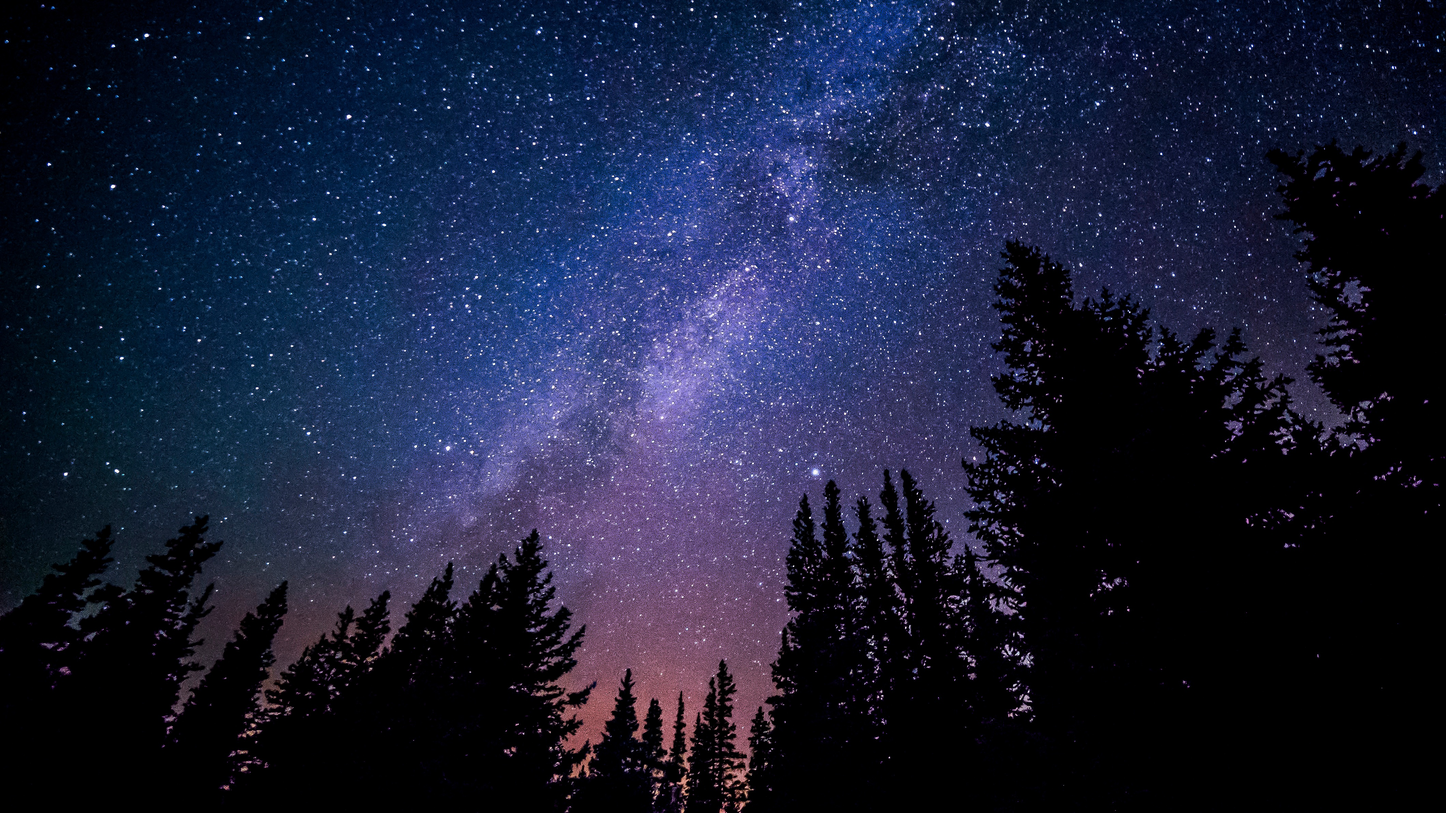
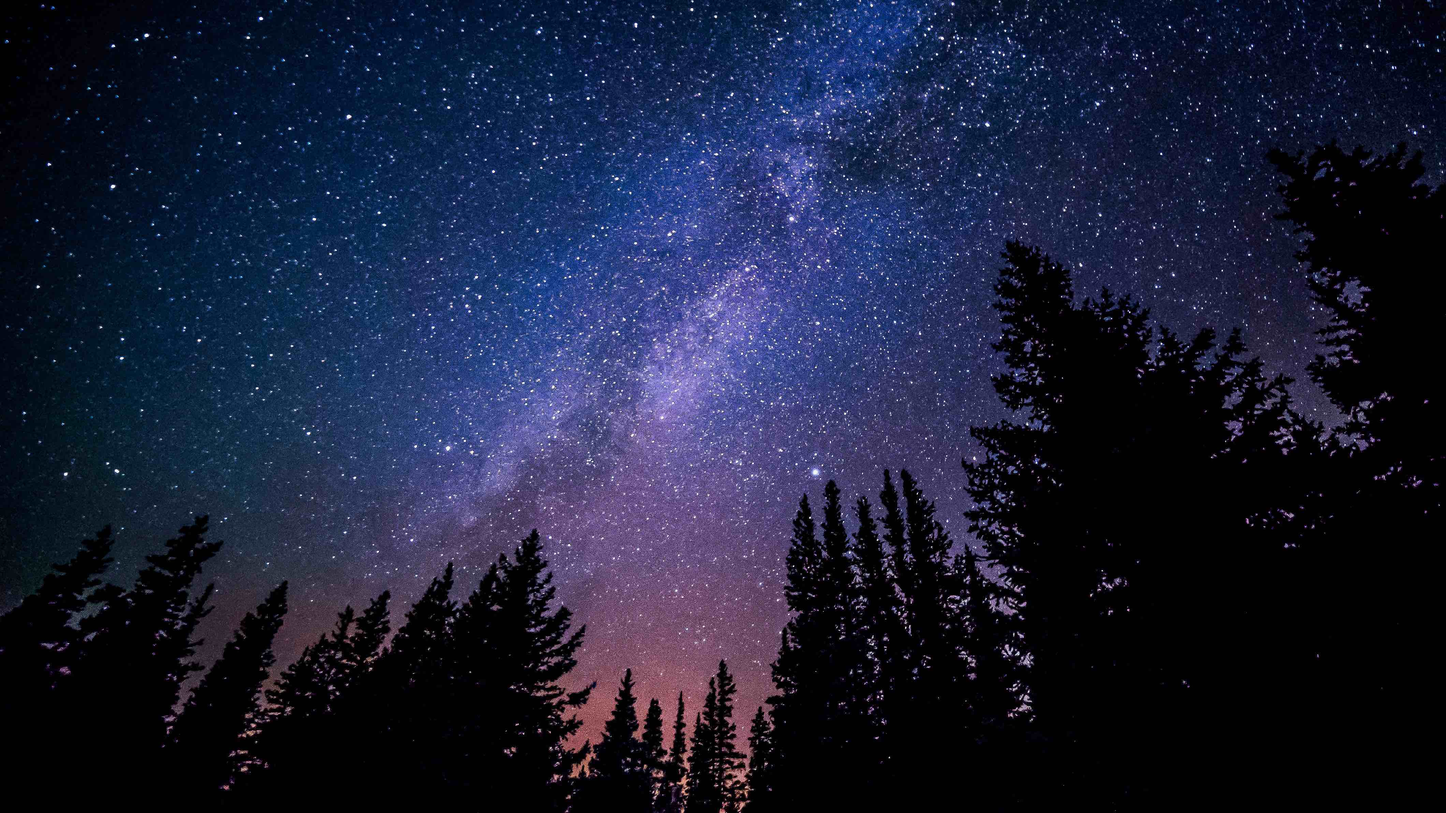
做了多項優化工程，感謝廣霖大大、皮皮大大和宏宏大大。 1.背景圖的檔案變小了！ 2.背景圖暗化處理讓字更看得到！ 3.增加螢火蟲效果！

diff --git a/pp.js b/pp.js
@@ -1,0 +1,107 @@
+function fireflies() {
+    var WIDTH;
+    var HEIGHT;
+    
+    var g;
+    var pxs = new Array();
+    var rint = 50;
+    
+    function getWidth() { return window.innerWidth; }
+    function getHeight() { return window.innerHeight; }
+    
+    function getContainer() { return document.getElementById('container'); }
+    function getCanvas() { return document.getElementById('pixie'); }
+    function getCanvasContext() { return getCanvas().getContext('2d'); }
+    
+    window.onload = main;
+    
+    function main() {
+        WIDTH = getWidth();
+        HEIGHT = getHeight();
+        
+        var container = getContainer();
+        container.style.width = WIDTH + 'px';
+        container.style.height = HEIGHT + 'px';
+        
+        var canvas = getCanvas();
+        canvas.width = WIDTH;
+        canvas.height = HEIGHT;
+        
+        for(var i = 0; i < 100; i++) {
+            pxs[i] = new Circle();
+            pxs[i].reset();
+        }
+        setInterval(draw,rint);
+        
+    };
+    
+    function draw() {
+        getCanvasContext().clearRect(0,0,WIDTH,HEIGHT);
+        for(var i = 0; i < pxs.length; i++) {
+            pxs[i].fade();
+            pxs[i].move();
+            pxs[i].draw();
+        }
+    }
+    
+    function Circle() {
+        this.con = getCanvasContext('2d');
+        this.s = {
+            ttl: 8000,
+            xmax: 5,
+            ymax: 2,
+            rmax: 10,
+            rt: 1,
+            xdef: 960,
+            ydef: 540,
+            xdrift: 4,
+            ydrift: 4,
+            random: true,
+            blink: true
+        };
+        
+        this.reset = function () {
+            this.x = (this.s.random ? WIDTH*Math.random() : this.s.xdef);
+            this.y = (this.s.random ? HEIGHT*Math.random() : this.s.ydef);
+            this.r = ((this.s.rmax-1)*Math.random()) + 1;
+            this.dx = (Math.random()*this.s.xmax) * (Math.random() < .5 ? -1 : 1);
+            this.dy = (Math.random()*this.s.ymax) * (Math.random() < .5 ? -1 : 1);
+            this.hl = (this.s.ttl/rint)*(this.r/this.s.rmax);
+            this.rt = Math.random()*this.hl;
+            this.s.rt = Math.random()+1;
+            this.stop = Math.random()*.2+.4;
+            this.s.xdrift *= Math.random() * (Math.random() < .5 ? -1 : 1);
+            this.s.ydrift *= Math.random() * (Math.random() < .5 ? -1 : 1);
+        } 
+        
+        this.fade = function() {
+            this.rt += this.s.rt;
+        }
+        
+        this.draw = function() {
+            if(this.s.blink && (this.rt <= 0 || this.rt >= this.hl)) this.s.rt = this.s.rt*-1;
+            else if(this.rt >= this.hl) this.reset();
+            var newo = 1-(this.rt/this.hl);
+            this.con.beginPath();
+            this.con.arc(this.x,this.y,this.r,0,Math.PI*2,true);
+            this.con.closePath();
+            var cr = this.r*newo;
+            g = this.con.createRadialGradient(this.x,this.y,0,this.x,this.y,(cr <= 0 ? 1 : cr));
+            g.addColorStop(0.0, 'rgba(238,180,28,'+newo+')');
+            g.addColorStop(this.stop, 'rgba(238,180,28,'+(newo*.2)+')');
+            g.addColorStop(1.0, 'rgba(238,180,28,0)');
+            this.con.fillStyle = g;
+            this.con.fill();
+        }
+        
+        this.move = function() {
+            this.x += (this.rt/this.hl)*this.dx;
+            this.y += (this.rt/this.hl)*this.dy;
+            if(this.x > WIDTH || this.x < 0) this.dx *= -1;
+            if(this.y > HEIGHT || this.y < 0) this.dy *= -1;
+        }
+        
+        this.getX = function() { return this.x; }
+        this.getY = function() { return this.y; }
+    }
+}

diff --git a/index.html b/index.html
@@ -1,19 +1,25 @@
 <!DOCTYPE html>
 <html>
-    <head>
-        <meta charset="utf-8">
-        <link type="text/css" rel="stylesheet" href="/static/wasay.css">
-        <title>IM Your Angel.</title>
-    </head>
+<head>
+    <meta charset="utf-8">
+    <link type="text/css" rel="stylesheet" href="/static/wasay.css">
+    <title>IM Your Angel.</title>
+</head>
+<body onload="fireflies()">
+    <div id="container">
+        <canvas id="pixie"></canvas>
+    </div>
+    <h1>誰，是我的小主人？</h1>
+    <!--全型空白ㄎㄎㄎ-->
+    <p>　　　　我的電子郵件位址是　<input id="name" type="text" placeholder="Your Email Address" maxlength="50"></p>
+    <input id="send" type="button" value="請帶我去找他" onclick="myMaster()">
+
+    <script src="/static/pp.js"></script>
     <script>
         function myMaster() {
-            location.href='/calc/' + document.getElementById('name').value;
+            location.href='/calc/' + document.getElementById('name').value;   
         }
+        fireflies();
     </script>
-    <body>
-        <h1>誰，是我的小主人？</h1>
-        <!--全型空白ㄎㄎㄎ-->
-        <p>　　　　我的電子郵件位址是　<input id="name" type="text" placeholder="Your Email Address" maxlength="50"></p>
-        <input id="send" type="button" value="請帶我去找他" onclick="myMaster()">
-    </body>
-</html>
+</body>
+</html> 

diff --git a/wasay.css b/wasay.css
@@ -8,7 +8,8 @@
 }
 
 body{
-    background-image: url(/static/bg.jpg);
+    background-image: -webkit-linear-gradient(top, rgba(0,0,0,.5), rgba(0,0,0,1)), url(/static/bg.jpg);
+    background-image: linear-gradient(top, rgba(0,0,0,.5), rgba(0,0,0,1)), url(/static/bg.jpg);
     background-attachment: fixed;
     background-size: cover;
     font-family: "Noto Sans TC", sans-serif;
@@ -41,4 +42,29 @@ p{
 
 #send{
     font-size: 1.2rem;
+}
+
+html, body, div, span, canvas { margin:0; padding:0; }
+
+#container {
+  overflow: hidden;
+  position: absolute;
+  height: 100%;
+  width: 100%;
+  z-index: -1;
+    /*
+    background:-o-linear-gradient(top, #000, #257eb7);
+    background:-ms-linear-gradient(top, #000, #257eb7);
+	background:-moz-linear-gradient(top, #000, #257eb7);
+	background:-webkit-linear-gradient(top, #000, #021522);
+ 	background:linear-gradient(top, #000, #257eb7);	   
+    filter:progid:DXImageTransform.Microsoft.gradient(startColorStr='#040429', EndColorStr='#257eb7');
+	-ms-filter:"progid:DXImageTransform.Microsoft.gradient(startColorStr='#040429', EndColorStr='#257eb7')";*/
+}
+
+#pixie {
+  z-index:10;
+  position: absolute;
+  top: 0;
+  left: 0;
 }

diff --git a/error.html b/error.html
@@ -5,7 +5,14 @@
         <link type="text/css" rel="stylesheet" href="/static/wasay.css">
         <title>Not Found</title>
     </head>
-    <body>
+    <body onload="fireflies()">
+        <div id="container">
+            <canvas id="pixie"></canvas>
+        </div>
         <a href="/"><img src='/static/wa.png'></a>
+        <script src="/static/pp.js"></script>
+        <script>
+            fireflies();
+        </script>
     </body>
 </html>
